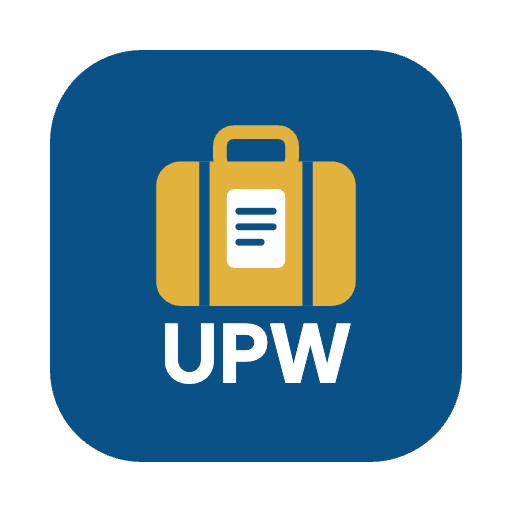
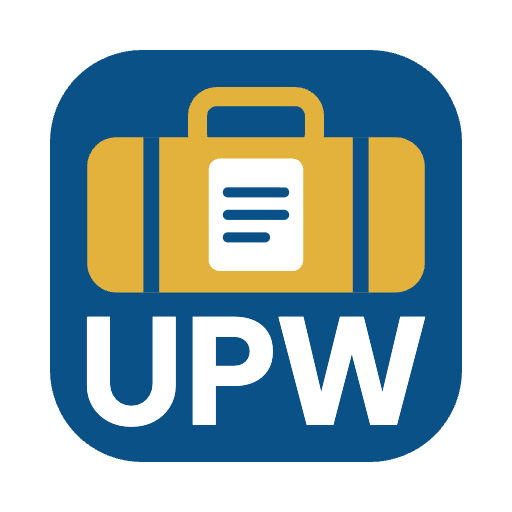
Rilis Produksi v0.23.1: ikon diperbesar ("Setuju tayang v0.23.1")

Changed region(s): [[0.1562, 0.1562, 0.8438, 0.8438]]

diff --git a/docs/aplikasi.js b/docs/aplikasi.js
@@ -273,7 +273,7 @@ function hBeranda() {
     <li>Keaslian surat tugas dapat dicek dengan kode verifikasi atau QR pada surat.</li></ol></section>`;
   return `<div class="head"><div><h1>Halo, ${esc(u.nama.split(",")[0])}</h1><p>Anda masuk sebagai <b>${esc(PERAN_L[peranAktif()])}</b>${u.peran.length > 1 ? ". Ganti peran lewat pilihan Peran di bilah atas" : ""}.</p></div></div>
    ${panelSurveiSaya()}${panelTugas()}
-   ${K.lingkungan === "uji" ? `<div class="callout"><b>${LABEL_VERSI} · Perbaikan dari catatan prodi.</b> Baru di v0.23.0: tombol <b>Kirim masukan</b> di Info (masalah, saran, permintaan fitur; boleh lampirkan tangkapan layar), menu Masukan untuk Admin dan Super Admin. Di v0.22.0: gambar panduan bernomor di Info, ikon mata pada kata sandi, persentase biodata dari semua kolom, tombol unggah ijazah mengikuti pendidikan yang diisi, simpan unduhan ke folder pilihan (aplikasi terpasang), pintasan di ikon Dock. Tahap 3–5: tombol <b>Info</b> (ikon i di bilah atas) berisi panduan sesuai peran; dokumen pendukung biodata dosen dan pengingat; riwayat keputusan KPS; tanda tangan di atas nama; menu Laboratorium; tautan bukti di portofolio; aplikasi lebih cepat. Sebelumnya: impor dari Excel dengan templat (akun, biodata dosen, kurikulum, lulusan), unduh daftar akun, Data Prodi › Status dosen; tombol <b>Lihat</b> pada kolom kata sandi, pencarian dosen dengan inisial, angkatan dari NIM, menu mengikuti peran aktif, saran Pasal GCET saat mengetik judul, ikon aplikasi baru.${menu().includes("bank") ? " Sebelumnya: menu <b>Bank Dokumen</b>: 94 slot dokumen mutu untuk 47 butir Matriks yang dinilai GPM, dengan penanggung jawab, masa berlaku, dan riwayat versi; jumlah dokumen berlaku ikut tampil di Penilaian." : ""}${menu().includes("mk") ? " Sebelumnya: menu <b>Mata Kuliah Saya</b> (RPS, kontrak, rubrik, metode, integrasi, bukti pembelajaran)." : ""} Sudah ada juga: <b>DED</b> (narasi 64 butir, unduh Word) dan <b>Penilaian</b> (simulasi 84 butir). <b>Survei:</b> Baru${menu().includes("survei") ? ": menu <b>Survei</b> (templat Tabel 22 kepuasan mahasiswa dan Tabel 11 pengguna lulusan, anonim atau beridentitas, tautan tanpa login untuk alumni dan pengguna, rekap dan tindak lanjut); Tabel iLKPS kini lengkap 33 lembar" : ": survei dari prodi muncul di Beranda bila ada yang terbuka untuk Anda"}.
+   ${K.lingkungan === "uji" ? `<div class="callout"><b>${LABEL_VERSI} · Perbaikan dari catatan prodi.</b> v0.23.1: ikon aplikasi diperbesar (koper dan UPW memenuhi kotak). Baru di v0.23.0: tombol <b>Kirim masukan</b> di Info (masalah, saran, permintaan fitur; boleh lampirkan tangkapan layar), menu Masukan untuk Admin dan Super Admin. Di v0.22.0: gambar panduan bernomor di Info, ikon mata pada kata sandi, persentase biodata dari semua kolom, tombol unggah ijazah mengikuti pendidikan yang diisi, simpan unduhan ke folder pilihan (aplikasi terpasang), pintasan di ikon Dock. Tahap 3–5: tombol <b>Info</b> (ikon i di bilah atas) berisi panduan sesuai peran; dokumen pendukung biodata dosen dan pengingat; riwayat keputusan KPS; tanda tangan di atas nama; menu Laboratorium; tautan bukti di portofolio; aplikasi lebih cepat. Sebelumnya: impor dari Excel dengan templat (akun, biodata dosen, kurikulum, lulusan), unduh daftar akun, Data Prodi › Status dosen; tombol <b>Lihat</b> pada kolom kata sandi, pencarian dosen dengan inisial, angkatan dari NIM, menu mengikuti peran aktif, saran Pasal GCET saat mengetik judul, ikon aplikasi baru.${menu().includes("bank") ? " Sebelumnya: menu <b>Bank Dokumen</b>: 94 slot dokumen mutu untuk 47 butir Matriks yang dinilai GPM, dengan penanggung jawab, masa berlaku, dan riwayat versi; jumlah dokumen berlaku ikut tampil di Penilaian." : ""}${menu().includes("mk") ? " Sebelumnya: menu <b>Mata Kuliah Saya</b> (RPS, kontrak, rubrik, metode, integrasi, bukti pembelajaran)." : ""} Sudah ada juga: <b>DED</b> (narasi 64 butir, unduh Word) dan <b>Penilaian</b> (simulasi 84 butir). <b>Survei:</b> Baru${menu().includes("survei") ? ": menu <b>Survei</b> (templat Tabel 22 kepuasan mahasiswa dan Tabel 11 pengguna lulusan, anonim atau beridentitas, tautan tanpa login untuk alumni dan pengguna, rekap dan tindak lanjut); Tabel iLKPS kini lengkap 33 lembar" : ": survei dari prodi muncul di Beranda bila ada yang terbuka untuk Anda"}.
    Sudah ada: Portofolio Saya (ekspor PDF/Excel/ZIP), kegiatan dan surat tugas dengan QR${u.peran.includes("kps") ? " dan tanda tangan KPS" : ""}, unggah bukti bersama, batas hari kerja dan pengingat, verifikasi data, cek keaslian surat, biodata, pencarian orang.</div>` : ""}
    ${menu().includes("kegiatan") ? `<div class="row"><button class="btn primary" data-go="kegiatan">Buka Kegiatan</button>${menu().includes("kps") ? `<button class="btn" data-go="kps">Buka Antrean KPS</button>` : ""}</div>` : ""}
    <section class="panel"><h2>Akun Anda</h2><div class="tbl-wrap"><table><tbody>

diff --git a/docs/sw.js b/docs/sw.js
@@ -1,6 +1,6 @@
 /* Service worker: tampilan diambil dari jaringan lebih dulu (agar pembaruan langsung terasa),
    lalu cadangan dari cache bila sedang offline. Permintaan ke server Apps Script tidak di-cache. */
-const CACHE = "upw-produksi-v0.23.0";
+const CACHE = "upw-produksi-v0.23.1";
 const INTI = ["./", "index.html", "gaya.css", "konfig.js", "aplikasi.js", "qr.js", "zip.js", "docx.js", "logo.png", "ikon-192.png", "ikon-512.png", "ikon-apple-180.png", "wilayah.json"];
 self.addEventListener("install", e => { e.waitUntil(caches.open(CACHE).then(c => c.addAll(INTI)).then(() => self.skipWaiting())); });
 self.addEventListener("activate", e => {

diff --git a/docs/konfig.js b/docs/konfig.js
@@ -1,7 +1,7 @@
 /* Konfigurasi lingkungan Produksi. Dibuat oleh alat/tampilan.mjs dari docs/uji. */
 window.UPW_KONFIG = {
   lingkungan: "produksi",
-  versi: "0.23.0",
+  versi: "0.23.1",
   api: "https://script.google.com/macros/s/AKfycbylF-ZVlYYDbAmQE3OBH0q7P_cOBaAFO-WSK0OKsErHLyEf4JmbWe4jrkV3VZVk2uK3/exec",
   kunciPenyimpanan: "upw"
 };

diff --git a/CLAUDE.md b/CLAUDE.md
@@ -88,7 +88,7 @@ Rincian lengkap: bagian "Prosedur rilis dan pengembalian versi" di dokumen ranca
   Rahasia server (MERICA) di Script Properties, BUKAN di repo.
 - Server Produksi DIBUAT 13 Nov 2026 (pemilik: "Buat sekarang"): proyek "Repositori UPW (Produksi)", scriptId
   1zQ7xhO3bgX4NsfHiRCeMdr3T8VH8L5u_TlTuilPp3KXUxU3JYR_lhXr0, deployment AKfycbylF-ZVlYYDbAmQE3OBH0q7P_cOBaAFO-WSK0OKsErHLyEf4JmbWe4jrkV3VZVk2uK3
-  (v0.23.0 sejak 14 Nov 2026, @3, "Setuju tayang v0.23.0"; sebelumnya v0.16.0 @2). Semua di alat/produksi.json. 13 Nov 2026: pemilik sudah menjalankan izinkanServer + siapkanProduksi (ping: lingkungan
+  (server v0.23.0 sejak 14 Nov 2026, @3, "Setuju tayang v0.23.0"; tampilan Produksi v0.23.1, "Setuju tayang v0.23.1"). Semua di alat/produksi.json. 13 Nov 2026: pemilik sudah menjalankan izinkanServer + siapkanProduksi (ping: lingkungan
   produksi); kata sandi Super Admin Produksi hanya diketahui pemilik. JANGAN panggil aksi "siapkan" ke URL Produksi.
   Cek dari luar cukup ping (curl -sL --data '{"aksi":"ping"}', tanpa -X POST agar redirect jadi GET). Spreadsheet/Drive Produksi dibuat oleh siapkanProduksi. gas/.clasp.json TETAP Uji Coba; push ke Produksi
   dari folder sementara (lihat PRODUKSI.md) dan HANYA setelah "setuju tayang".

diff --git a/CHANGELOG.md b/CHANGELOG.md
@@ -3,6 +3,12 @@
 Format: versi, tanggal, lingkungan, isi, penyetuju. Produksi hanya berubah setelah pemilik menulis "setuju tayang".
 Rilis Uji Coba tidak memerlukan persetujuan tayang (aturan tetap no. 1–2 di CLAUDE.md).
 
+## v0.23.1 — 14 Nov 2026 — Produksi
+- Tampilan Produksi diperbarui ke v0.23.1: ikon aplikasi diperbesar (koper dan UPW memenuhi kotak).
+- Hanya tampilan yang berubah. Kode server tidak berubah, jadi server Produksi tetap v0.23.0 (deployment @3) dan tidak diterapkan ulang.
+  Data tidak tersentuh; cadangan terakhir: "Cadangan / sebelum v0.23.0" (hari yang sama). Rollback ke v0.23.0 cukup tampilan (tag v0.23.0).
+- Penyetuju: pemilik, di chat 14 Nov 2026: "Setuju tayang v0.23.1".
+
 ## v0.23.1 — 14 Nov 2026 — Uji Coba
 - Ikon aplikasi diperbesar (permintaan pemilik): koper dan tulisan UPW kini memenuhi kotak biru ke atas-bawah dan kiri-kanan
   (sebelumnya banyak ruang kosong). Bentuk dan warna tetap konsep D. Kode pembuat ikon disimpan di alat/ikon.js.

diff --git a/PRODUKSI.md b/PRODUKSI.md
@@ -1,7 +1,7 @@
 # Daftar periksa Produksi — Repositori Akreditasi UPW
 
 **TAYANG 13 Nov 2026: v0.16.0** di https://upw-ppb.github.io/repositori-upw/ (persetujuan pemilik: "Setuju tayang v0.16.0").
-**Diperbarui 14 Nov 2026: v0.23.0** (deployment @3; persetujuan: "Setuju tayang v0.23.0").
+**Diperbarui 14 Nov 2026: v0.23.0** (deployment @3; persetujuan: "Setuju tayang v0.23.0"); tampilan v0.23.1 (ikon; "Setuju tayang v0.23.1").
 Email kampus (DKIM) belum beres → pakai aktivasi tanpa email sementara (v0.16.0). Bagian A tetap berlaku untuk DKIM.
 
 Langkah pemilik setelah tayang: masuk sebagai `superadmin` (sandi sementara dari log) → ganti sandi → Pengguna › Aktivasi akun →
